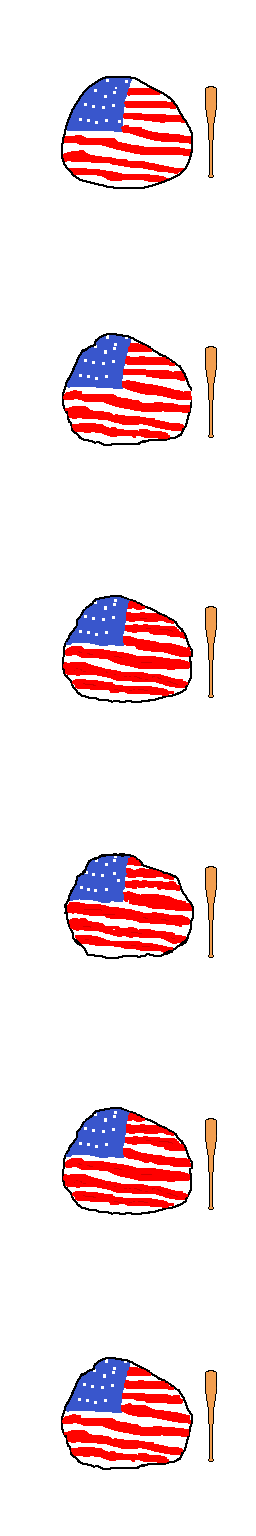
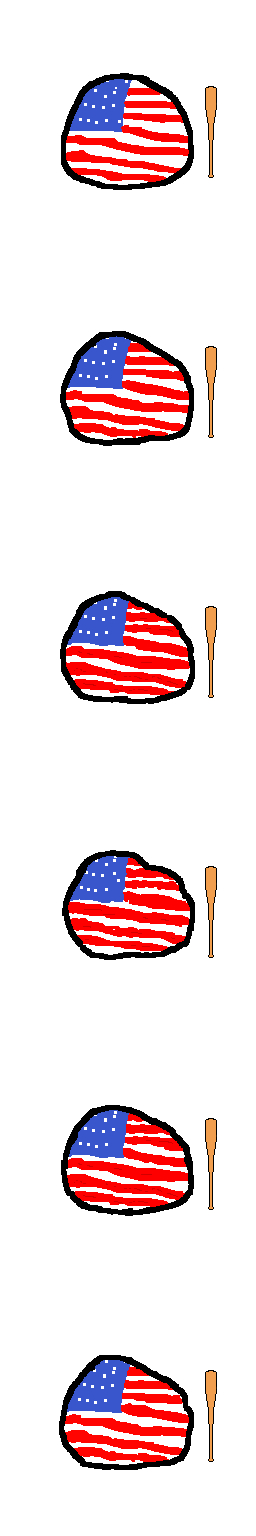
UK Idle and hub eyes

diff --git a/src/main/java/net/tobyp/ld31/StateFight.java b/src/main/java/net/tobyp/ld31/StateFight.java
@@ -26,9 +26,13 @@ public class StateFight extends BasicGameState implements InputListener {
     private ControlManager control_manager;
 
     private SpriteSheet health;
+    private SpriteSheet hub_eyes;
 
     private static final float LEFT_HEALTH_BASE = 142;
     private static final float RIGHT_HEALTH_BASE = 142+448+100;
+
+    private static final float HAPPY_THRESH = 0.7f;
+    private static final float SAD_THRESH = 0.4f;
 
     public StateFight(Arena arena, Entity left, Entity right) {
         this.arena = arena;
@@ -46,6 +50,7 @@ public class StateFight extends BasicGameState implements InputListener {
     public void init(GameContainer gameContainer, StateBasedGame stateBasedGame) throws SlickException {
         try {
             health = new SpriteSheet(Ld31.class.getResource("/health.png"), 448, 79);
+            hub_eyes = new SpriteSheet(Ld31.class.getResource("/hub_eyes.png"), 150, 150);
         } catch (IOException e) {
             e.printStackTrace();
         }
@@ -81,6 +86,18 @@ public class StateFight extends BasicGameState implements InputListener {
 
         graphics.drawImage(health.getSprite(0, 1), 142, 20);
         graphics.drawImage(left.getCharacter().getHubImage(), 0, 0);
+        if (left.getHealth() >= HAPPY_THRESH) {
+            graphics.drawImage(hub_eyes.getSubImage(1,0), 0, 0);
+        }
+        else if (left.getHealth() >= SAD_THRESH) {
+            graphics.drawImage(hub_eyes.getSubImage(0,0), 0, 0);
+        }
+        else if (left.getHealth() > 0.f) {
+            graphics.drawImage(hub_eyes.getSubImage(2,0), 0, 0);
+        }
+        else {
+            graphics.drawImage(hub_eyes.getSubImage(3,0), 0, 0);
+        }
         int lhw = (int)((448-19-14)*(left.getHealth())); //actual width of red, the 19/14 are the left/right margins
         graphics.drawImage(health.getSprite(0, 0),
                 LEFT_HEALTH_BASE+(448-14)-lhw, 20,
@@ -89,6 +106,18 @@ public class StateFight extends BasicGameState implements InputListener {
                 (448-14), 79);
         graphics.drawImage(health.getSprite(0, 3), 142+448+100, 20);
         graphics.drawImage(right.getCharacter().getHubImage(), 1280-150, 0);
+        if (right.getHealth() >= HAPPY_THRESH) {
+            graphics.drawImage(hub_eyes.getSubImage(1,0), 1280-150, 0);
+        }
+        else if (right.getHealth() >= SAD_THRESH) {
+            graphics.drawImage(hub_eyes.getSubImage(0,0), 1280-150, 0);
+        }
+        else if (right.getHealth() > 0.f) {
+            graphics.drawImage(hub_eyes.getSubImage(2,0), 1280-150, 0);
+        }
+        else {
+            graphics.drawImage(hub_eyes.getSubImage(3,0), 1280-150, 0);
+        }
         int rhw = (int)((448-24-28)*(right.getHealth())); //actual width of red, the 24/28 are the left/right margins
         //Health Bars here
         graphics.drawImage(health.getSprite(0, 2),

diff --git a/src/main/java/net/tobyp/ld31/Ld31.java b/src/main/java/net/tobyp/ld31/Ld31.java
@@ -35,7 +35,7 @@ public class Ld31 extends StateBasedGame {
     @Override
     public void initStatesList(GameContainer gameContainer) throws SlickException {
         try {
-            idle_gb = new SpriteSheet(Ld31.class.getResource("/us/idle.png"), 256, 256);
+            idle_gb = new SpriteSheet(Ld31.class.getResource("/gb/idle.png"), 256, 256);
             idle_us = new SpriteSheet(Ld31.class.getResource("/us/idle.png"), 256, 256);
             hub_gb = new Image(Ld31.class.getResourceAsStream("/gb/hub.png"), "gb_hub", false);
             hub_us = new Image(Ld31.class.getResourceAsStream("/us/hub.png"), "us_hub", false);
